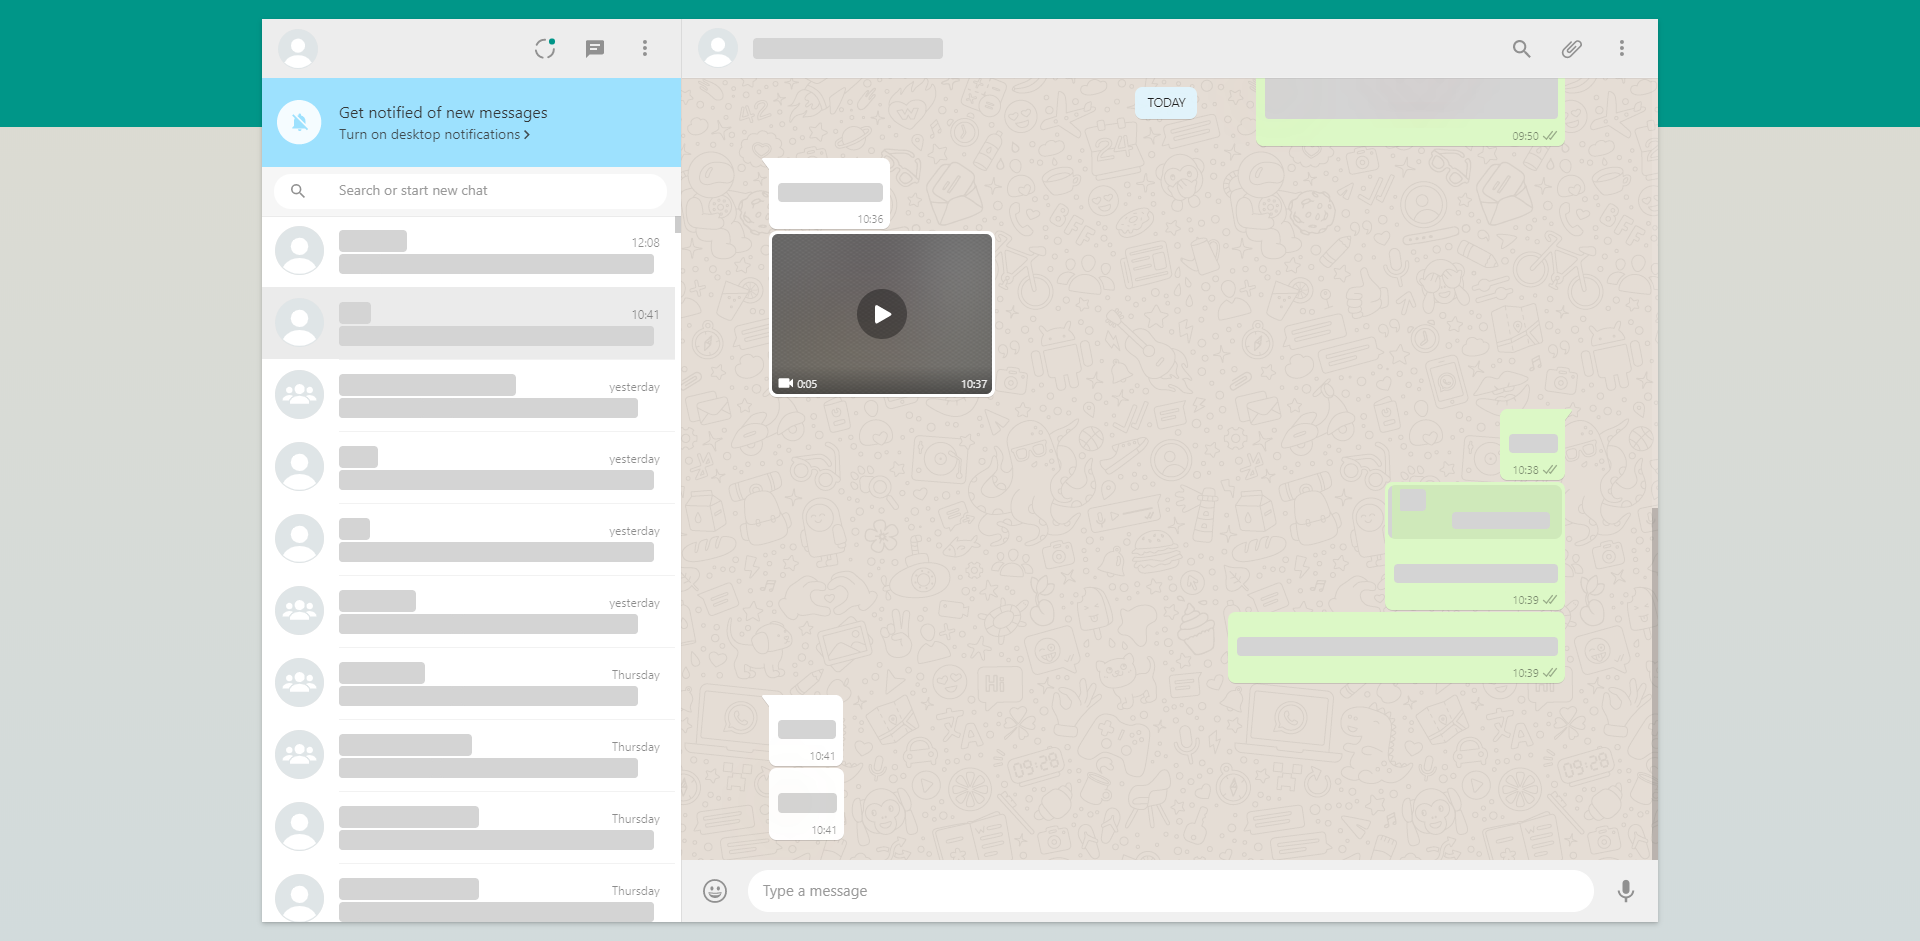
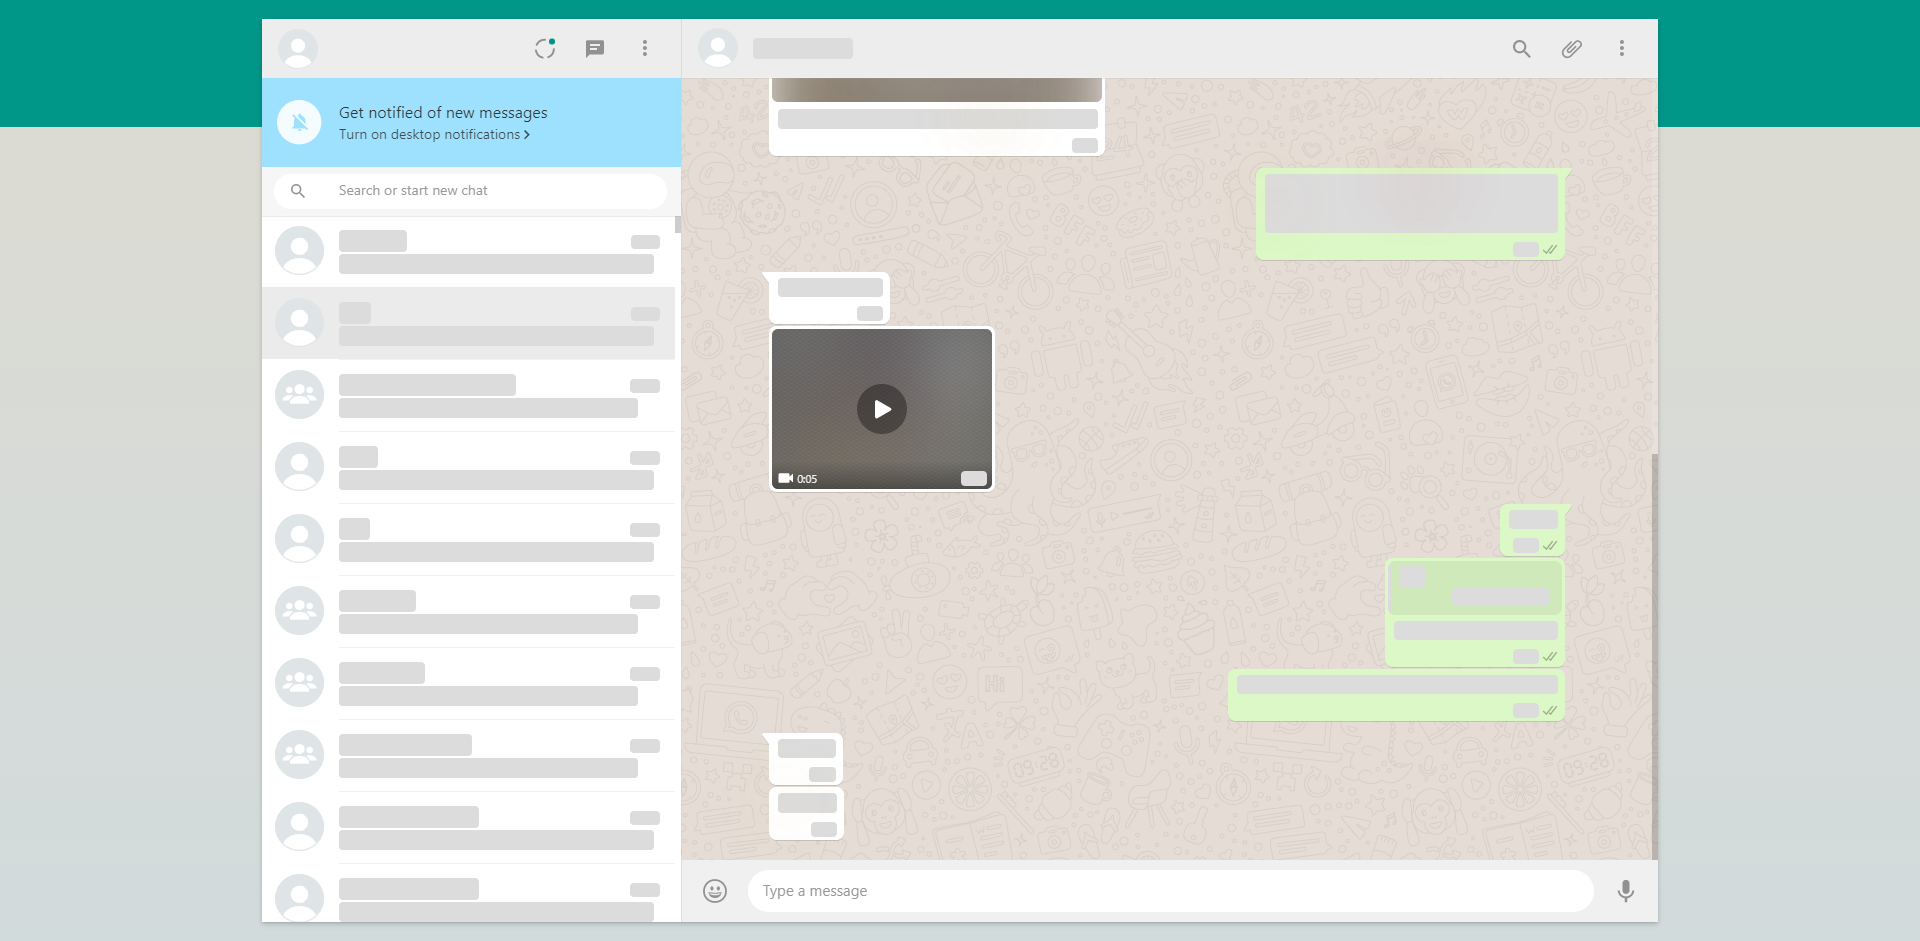
docs: initial readme update with info

diff --git a/README.md b/README.md
@@ -1,2 +1,34 @@
-# WhatsApp-Web-Skeleton
+# WhatsApp Web Skeleton
 Shows a skeleton screen which is a version of the UI that mimics the page’s layout by showing its elements in a shape similar to the actual content. Great for screenshots.
+Serves as a companion style for [Dark WhatsApp](https://github.com/vednoc/dark-whatsapp) ![external](https://user-images.githubusercontent.com/136959/44433186-de548e80-a56a-11e8-8947-d3331bd6d7a1.png)
+
+![https://github.com/E-RELevant/whatsapp-web-skeleton/commits/master](https://img.shields.io/github/v/tag/E-RELevant/whatsapp-web-skeleton.svg?label=version&style=flat)
+![https://github.com/E-RELevant/whatsapp-web-skeleton/stargazers](https://img.shields.io/github/stars/E-RELevant/whatsapp-web-skeleton.svg?style=flat)
+![https://github.com/E-RELevant/whatsapp-web-skeleton/network](https://img.shields.io/github/forks/E-RELevant/whatsapp-web-skeleton.svg?color=007ec6&style=flat)
+![https://github.com/E-RELevant/whatsapp-web-skeleton/wiki](https://img.shields.io/badge/docs-on%20GitHub-007ec6.svg?&style=flat)
+![https://raw.githubusercontent.com/E-RELevant/WhatsApp-Web-Skeleton/master/wa-sk.user.styl](https://img.shields.io/badge/Install%20directly%20with-Stylus-116b59.svg?longCache=true&style=flat)
+
+![preview](https://raw.githubusercontent.com/E-RELevant/WhatsApp-Web-Skeleton/master/images/preview.png)
+
+## Features
+- Toggle on/off skeleton mode
+  - Hides the main chat area, right and left drawers.
+- Set custom skeleton background color.
+- Toggle on/off skeleton mode for timestamps
+- Remove empty message header for right-to-left syntax.
+
+## Installation
+First, you need [Stylus](https://add0n.com/stylus.html) UserStyle manager that supports installing UserCSS/UserStyle.
+- [Google Chrome](https://chrome.google.com/webstore/detail/stylus/clngdbkpkpeebahjckkjfobafhncgmne) ![external](https://user-images.githubusercontent.com/136959/44433186-de548e80-a56a-11e8-8947-d3331bd6d7a1.png)
+- [Mozilla Firefox](https://addons.mozilla.org/firefox/addon/styl-us/) ![external](https://user-images.githubusercontent.com/136959/44433186-de548e80-a56a-11e8-8947-d3331bd6d7a1.png)
+- [Opera](https://addons.opera.com/extensions/details/stylus/) ![external](https://user-images.githubusercontent.com/136959/44433186-de548e80-a56a-11e8-8947-d3331bd6d7a1.png)
+
+Then, to install the WhatsApp Web Skeleton UserStyle, click on the button below:
+
+![https://raw.githubusercontent.com/E-RELevant/WhatsApp-Web-Skeleton/master/wa-sk.user.styl](https://img.shields.io/badge/Install%20directly%20with-Stylus-116b59.svg?longCache=true&style=flat)
+
+Once the raw `wa-sk.user.styl` file is open in the browser, Stylus will open a new tab showing some basic information & options.
+Click on “Install style” to initially install the style.
+
+## License
+Code released under the [MIT](LICENSE) license.
